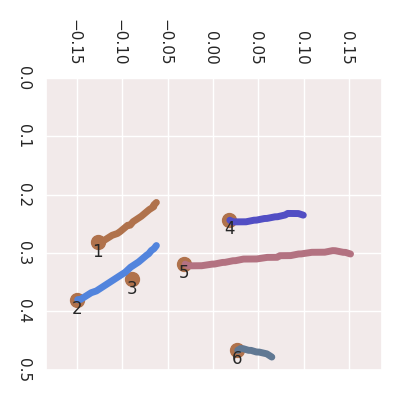
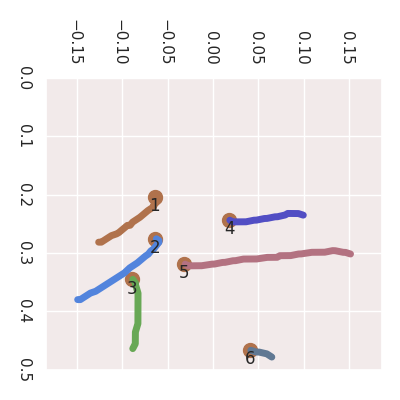
update

diff --git a/core/controller.py b/core/controller.py
@@ -238,12 +238,13 @@ if __name__ == "__main__":
     args = parser.parse_args()
 
     root_path = '../control/data/font_data'
-    folder_name = 'chuan'
-    font_name = '川'
+    folder_name = 'xing'
+    font_name = '行'
     type = 1
     
     stroke_list_file = glob.glob(root_path + '/' + folder_name + '/' + font_name + '_*.txt')
     num_stroke = len(stroke_list_file)
+    print("num_stroke :", num_stroke)
     traj_list = []
 
     for str_index in range(num_stroke):
@@ -254,9 +255,11 @@ if __name__ == "__main__":
     inter_list = np.ones(len(traj_list))
     inverse_list = np.ones(len(traj_list))
     inverse_list[0] = False
+    inverse_list[1] = False
     inter_list[0] = 2
     inter_list[1] = 2
     inter_list[2] = 2
+    inter_list[5] = 2
     generate_word_path(
         traj_list,
         inter_list,
@@ -264,7 +267,7 @@ if __name__ == "__main__":
         center_shift=np.array([0.16, -WIDTH / 2]),
         velocity=0.04,
         plot_show=True,
-        save_path=True,
+        save_path=False,
         word_name=folder_name)
     
     # generate_stroke_path(traj_list[2],
